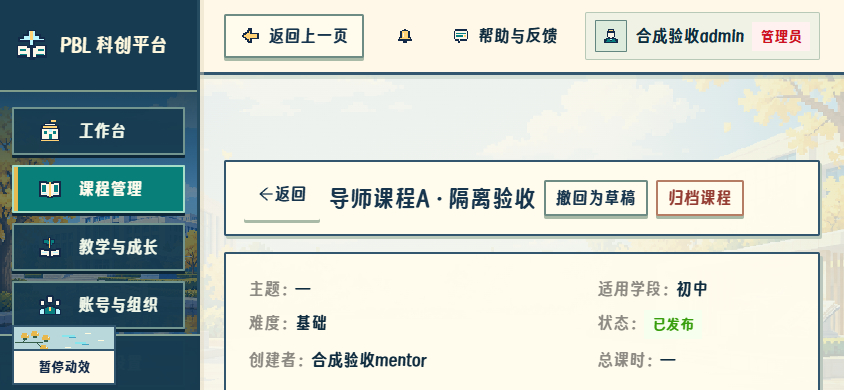
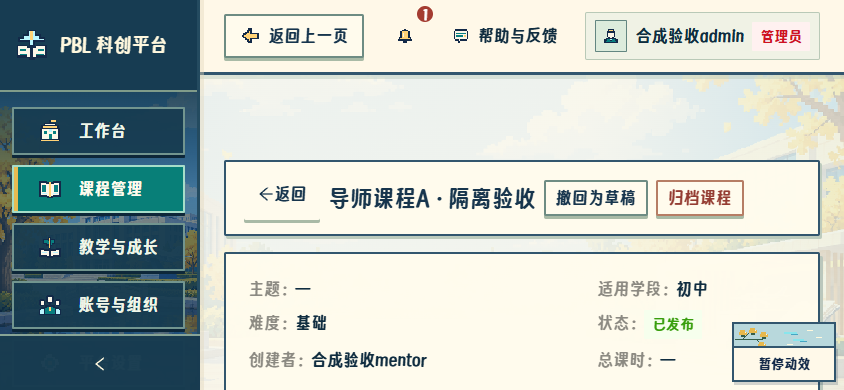
fix: keep pixel motion controls clear of short-screen navigation

diff --git a/docs/pixel-motion/index.html b/docs/pixel-motion/index.html
@@ -1,1 +1,1 @@
-<!doctype html><html lang="zh-CN"><meta charset="utf-8"><meta name="viewport" content="width=device-width,initial-scale=1"><title>全端像素动效验收</title><style>body{max-width:1500px;margin:24px auto;padding:0 20px;background:#edf1e5;color:#132a49;font:17px/1.8 system-ui}a{color:#065b69}section{margin:32px 0}.grid{display:grid;grid-template-columns:repeat(auto-fit,minmax(300px,1fr));gap:20px}figure{margin:0;border:2px solid #32566e;background:#fff9e9;padding:10px}img{width:100%;height:auto}h1,h2{line-height:1.4}small{display:block}</style><h1>全端像素动效验收</h1><p><a href="http://127.0.0.1:4204/login">真实网站</a> · <a href="http://127.0.0.1:4204/pixel-motion-preview/index.html">动态素材/逐帧/静态对照</a> · <a href="verification.md">验证与限制</a> · <a href="coverage.md">覆盖表</a> · <a href="DEPLOY.md">导入指南</a></p><p>所有网站截图均为实际浏览器原始输出，未缩改像素或把整张图作为页面。这里的网页缩略显示可点击查看原图；390等标注来自实际DOM视口。素材页截图与网站时间截图分开列示，不称为录屏。账号仅放本机私有文件。</p><p>原生后台隐藏仍待普通浏览器人工复核；该项未记为通过。当前使用合成课程/账号，截图与可操作预览是独立测试会话，进度可能不同。</p><section><h2>登录：三尺寸与补充视口</h2><div class="grid"><figure><a href="images/login-1440.jpg"><img loading="lazy" src="images/login-1440.jpg" alt="登录 1440×900"></a><figcaption>1440×900 原始视口</figcaption></figure><figure><a href="images/login-768.jpg"><img loading="lazy" src="images/login-768.jpg" alt="登录 768×1024"></a><figcaption>768×1024 原始视口</figcaption></figure><figure><a href="images/login-390.jpg"><img loading="lazy" src="images/login-390.jpg" alt="登录 390×844"></a><figcaption>390×844 原始视口</figcaption></figure><figure><a href="images/login-360.jpg"><img loading="lazy" src="images/login-360.jpg" alt="登录 360×640"></a><figcaption>360×640 原始视口</figcaption></figure><figure><a href="images/login-844.jpg"><img loading="lazy" src="images/login-844.jpg" alt="登录 844×390"></a><figcaption>844×390 原始视口</figcaption></figure><figure><a href="images/login-1920.jpg"><img loading="lazy" src="images/login-1920.jpg" alt="登录 1920×1080"></a><figcaption>1920×1080 原始视口</figcaption></figure></div></section><section><h2>学生地图：三尺寸与补充视口</h2><div class="grid"><figure><a href="images/student-1440.png"><img loading="lazy" src="images/student-1440.png" alt="学生地图 1440×900"></a><figcaption>1440×900 原始视口</figcaption></figure><figure><a href="images/student-768.png"><img loading="lazy" src="images/student-768.png" alt="学生地图 768×1024"></a><figcaption>768×1024 原始视口</figcaption></figure><figure><a href="images/student-390.png"><img loading="lazy" src="images/student-390.png" alt="学生地图 390×844"></a><figcaption>390×844 原始视口</figcaption></figure><figure><a href="images/student-360.png"><img loading="lazy" src="images/student-360.png" alt="学生地图 360×640"></a><figcaption>360×640 原始视口</figcaption></figure><figure><a href="images/student-844.png"><img loading="lazy" src="images/student-844.png" alt="学生地图 844×390"></a><figcaption>844×390 原始视口</figcaption></figure><figure><a href="images/student-1920.png"><img loading="lazy" src="images/student-1920.png" alt="学生地图 1920×1080"></a><figcaption>1920×1080 原始视口</figcaption></figure></div></section><section><h2>导师课程维护：三尺寸与补充视口</h2><div class="grid"><figure><a href="images/mentor-1440.png"><img loading="lazy" src="images/mentor-1440.png" alt="导师课程维护 1440×900"></a><figcaption>1440×900 原始视口</figcaption></figure><figure><a href="images/mentor-768.png"><img loading="lazy" src="images/mentor-768.png" alt="导师课程维护 768×1024"></a><figcaption>768×1024 原始视口</figcaption></figure><figure><a href="images/mentor-390.png"><img loading="lazy" src="images/mentor-390.png" alt="导师课程维护 390×844"></a><figcaption>390×844 原始视口</figcaption></figure><figure><a href="images/mentor-360.png"><img loading="lazy" src="images/mentor-360.png" alt="导师课程维护 360×640"></a><figcaption>360×640 原始视口</figcaption></figure><figure><a href="images/mentor-844.png"><img loading="lazy" src="images/mentor-844.png" alt="导师课程维护 844×390"></a><figcaption>844×390 原始视口</figcaption></figure><figure><a href="images/mentor-1920.png"><img loading="lazy" src="images/mentor-1920.png" alt="导师课程维护 1920×1080"></a><figcaption>1920×1080 原始视口</figcaption></figure></div></section><section><h2>管理员课程维护：三尺寸与补充视口</h2><div class="grid"><figure><a href="images/admin-1440.png"><img loading="lazy" src="images/admin-1440.png" alt="管理员课程维护 1440×900"></a><figcaption>1440×900 原始视口</figcaption></figure><figure><a href="images/admin-768.png"><img loading="lazy" src="images/admin-768.png" alt="管理员课程维护 768×1024"></a><figcaption>768×1024 原始视口</figcaption></figure><figure><a href="images/admin-390.png"><img loading="lazy" src="images/admin-390.png" alt="管理员课程维护 390×844"></a><figcaption>390×844 原始视口</figcaption></figure><figure><a href="images/admin-360.png"><img loading="lazy" src="images/admin-360.png" alt="管理员课程维护 360×640"></a><figcaption>360×640 原始视口</figcaption></figure><figure><a href="images/admin-844.png"><img loading="lazy" src="images/admin-844.png" alt="管理员课程维护 844×390"></a><figcaption>844×390 原始视口</figcaption></figure><figure><a href="images/admin-1920.png"><img loading="lazy" src="images/admin-1920.png" alt="管理员课程维护 1920×1080"></a><figcaption>1920×1080 原始视口</figcaption></figure></div></section><section><h2>真实网站时序截图</h2><p>不同时刻现场原图，非固定间隔录屏。独立PNG局部帧差断言见verified-scenes.json，不单凭整页变化判断动画。</p><div class="grid"><figure><a href="images/voyage-live-t0.jpg"><img loading="lazy" src="images/voyage-live-t0.jpg" alt="voyage-live-t0.jpg"></a><figcaption>voyage-live-t0.jpg</figcaption></figure><figure><a href="images/voyage-live-t1.jpg"><img loading="lazy" src="images/voyage-live-t1.jpg" alt="voyage-live-t1.jpg"></a><figcaption>voyage-live-t1.jpg</figcaption></figure><figure><a href="images/voyage-paused.jpg"><img loading="lazy" src="images/voyage-paused.jpg" alt="voyage-paused.jpg"></a><figcaption>voyage-paused.jpg</figcaption></figure></div></section><section><h2>五主题原帧预览</h2><p>代码原生像素帧素材的浏览器预览，不是实际网站录屏。每组完整8帧可在动态素材页横向查看，支持单步。</p><div class="grid"><figure><a href="images/asset-campus-frames.jpg"><img loading="lazy" src="images/asset-campus-frames.jpg" alt="asset-campus-frames.jpg"></a><figcaption>asset-campus-frames.jpg</figcaption></figure><figure><a href="images/asset-sky-frames.jpg"><img loading="lazy" src="images/asset-sky-frames.jpg" alt="asset-sky-frames.jpg"></a><figcaption>asset-sky-frames.jpg</figcaption></figure><figure><a href="images/asset-forest-frames.jpg"><img loading="lazy" src="images/asset-forest-frames.jpg" alt="asset-forest-frames.jpg"></a><figcaption>asset-forest-frames.jpg</figcaption></figure><figure><a href="images/asset-beach-frames.jpg"><img loading="lazy" src="images/asset-beach-frames.jpg" alt="asset-beach-frames.jpg"></a><figcaption>asset-beach-frames.jpg</figcaption></figure><figure><a href="images/asset-voyage-frames.jpg"><img loading="lazy" src="images/asset-voyage-frames.jpg" alt="asset-voyage-frames.jpg"></a><figcaption>asset-voyage-frames.jpg</figcaption></figure></div></section><p>中性后备（不是新增课程主题）：<a href="images/asset-neutral-frames.jpg">原帧预览</a>。</p></html>
+<!doctype html><html lang="zh-CN"><meta charset="utf-8"><meta name="viewport" content="width=device-width,initial-scale=1"><title>全端像素动效验收</title><style>body{max-width:1500px;margin:24px auto;padding:0 20px;background:#edf1e5;color:#132a49;font:17px/1.8 system-ui}a{color:#065b69}section{margin:32px 0}.grid{display:grid;grid-template-columns:repeat(auto-fit,minmax(300px,1fr));gap:20px}figure{margin:0;border:2px solid #32566e;background:#fff9e9;padding:10px}img{width:100%;height:auto}h1,h2{line-height:1.4}small{display:block}</style><h1>全端像素动效验收</h1><p><a href="http://127.0.0.1:4204/login">真实网站</a> · <a href="http://127.0.0.1:4204/pixel-motion-preview/index.html">动态素材/逐帧/静态对照</a> · <a href="verification.md">验证与限制</a> · <a href="coverage.md">覆盖表</a> · <a href="DEPLOY.md">导入指南</a></p><p>所有网站截图均为实际浏览器原始输出，未缩改像素或把整张图作为页面。这里的网页缩略显示可点击查看原图；390等标注来自实际DOM视口。素材页截图与网站时间截图分开列示，不称为录屏。账号仅放本机私有文件。</p><p>原生后台隐藏仍待普通浏览器人工复核；该项未记为通过。当前使用合成课程/账号，截图与可操作预览是独立测试会话，进度可能不同。</p><section><h2>登录：三尺寸与补充视口</h2><div class="grid"><figure><a href="images/login-1440.jpg"><img loading="lazy" src="images/login-1440.jpg" alt="登录 1440×900"></a><figcaption>1440×900 原始视口</figcaption></figure><figure><a href="images/login-768.jpg"><img loading="lazy" src="images/login-768.jpg" alt="登录 768×1024"></a><figcaption>768×1024 原始视口</figcaption></figure><figure><a href="images/login-390.jpg"><img loading="lazy" src="images/login-390.jpg" alt="登录 390×844"></a><figcaption>390×844 原始视口</figcaption></figure><figure><a href="images/login-360.jpg"><img loading="lazy" src="images/login-360.jpg" alt="登录 360×640"></a><figcaption>360×640 原始视口</figcaption></figure><figure><a href="images/login-844.jpg"><img loading="lazy" src="images/login-844.jpg" alt="登录 844×390"></a><figcaption>844×390 原始视口</figcaption></figure><figure><a href="images/login-1920.jpg"><img loading="lazy" src="images/login-1920.jpg" alt="登录 1920×1080"></a><figcaption>1920×1080 原始视口</figcaption></figure></div></section><section><h2>学生地图：三尺寸与补充视口</h2><div class="grid"><figure><a href="images/student-1440.png"><img loading="lazy" src="images/student-1440.png" alt="学生地图 1440×900"></a><figcaption>1440×900 原始视口</figcaption></figure><figure><a href="images/student-768.png"><img loading="lazy" src="images/student-768.png" alt="学生地图 768×1024"></a><figcaption>768×1024 原始视口</figcaption></figure><figure><a href="images/student-390.png"><img loading="lazy" src="images/student-390.png" alt="学生地图 390×844"></a><figcaption>390×844 原始视口</figcaption></figure><figure><a href="images/student-360.png"><img loading="lazy" src="images/student-360.png" alt="学生地图 360×640"></a><figcaption>360×640 原始视口</figcaption></figure><figure><a href="images/student-844.png"><img loading="lazy" src="images/student-844.png" alt="学生地图 844×390"></a><figcaption>844×390 原始视口</figcaption></figure><figure><a href="images/student-1920.png"><img loading="lazy" src="images/student-1920.png" alt="学生地图 1920×1080"></a><figcaption>1920×1080 原始视口</figcaption></figure></div></section><section><h2>导师课程维护：三尺寸与补充视口</h2><div class="grid"><figure><a href="images/mentor-1440.png"><img loading="lazy" src="images/mentor-1440.png" alt="导师课程维护 1440×900"></a><figcaption>1440×900 原始视口</figcaption></figure><figure><a href="images/mentor-768.png"><img loading="lazy" src="images/mentor-768.png" alt="导师课程维护 768×1024"></a><figcaption>768×1024 原始视口</figcaption></figure><figure><a href="images/mentor-390.png"><img loading="lazy" src="images/mentor-390.png" alt="导师课程维护 390×844"></a><figcaption>390×844 原始视口</figcaption></figure><figure><a href="images/mentor-360.png"><img loading="lazy" src="images/mentor-360.png" alt="导师课程维护 360×640"></a><figcaption>360×640 原始视口</figcaption></figure><figure><a href="images/mentor-844.png"><img loading="lazy" src="images/mentor-844.png" alt="导师课程维护 844×390"></a><figcaption>844×390 原始视口</figcaption></figure><figure><a href="images/mentor-1920.png"><img loading="lazy" src="images/mentor-1920.png" alt="导师课程维护 1920×1080"></a><figcaption>1920×1080 原始视口</figcaption></figure></div></section><section><h2>管理员课程维护：三尺寸与补充视口</h2><div class="grid"><figure><a href="images/admin-1440.png"><img loading="lazy" src="images/admin-1440.png" alt="管理员课程维护 1440×900"></a><figcaption>1440×900 原始视口</figcaption></figure><figure><a href="images/admin-768.png"><img loading="lazy" src="images/admin-768.png" alt="管理员课程维护 768×1024"></a><figcaption>768×1024 原始视口</figcaption></figure><figure><a href="images/admin-390.png"><img loading="lazy" src="images/admin-390.png" alt="管理员课程维护 390×844"></a><figcaption>390×844 原始视口</figcaption></figure><figure><a href="images/admin-360.png"><img loading="lazy" src="images/admin-360.png" alt="管理员课程维护 360×640"></a><figcaption>360×640 原始视口</figcaption></figure><figure><a href="images/admin-844.png"><img loading="lazy" src="images/admin-844.png" alt="管理员课程维护 844×390"></a><figcaption>844×390 原始视口</figcaption></figure><figure><a href="images/admin-1920.png"><img loading="lazy" src="images/admin-1920.png" alt="管理员课程维护 1920×1080"></a><figcaption>1920×1080 原始视口</figcaption></figure></div></section><section><h2>真实网站时序截图</h2><p>不同时刻现场原图，非固定间隔录屏。独立PNG局部帧差断言见verified-scenes.json，不单凭整页变化判断动画。</p><div class="grid"><figure><a href="images/voyage-live-t0.jpg"><img loading="lazy" src="images/voyage-live-t0.jpg" alt="voyage-live-t0.jpg"></a><figcaption>voyage-live-t0.jpg</figcaption></figure><figure><a href="images/voyage-live-t1.jpg"><img loading="lazy" src="images/voyage-live-t1.jpg" alt="voyage-live-t1.jpg"></a><figcaption>voyage-live-t1.jpg</figcaption></figure><figure><a href="images/voyage-paused.jpg"><img loading="lazy" src="images/voyage-paused.jpg" alt="voyage-paused.jpg"></a><figcaption>voyage-paused.jpg</figcaption></figure></div></section><section><h2>五主题原帧预览</h2><p>代码原生像素帧素材的浏览器预览，不是实际网站录屏。每组完整8帧可在动态素材页横向查看，支持单步。</p><div class="grid"><figure><a href="images/asset-campus-frames.jpg"><img loading="lazy" src="images/asset-campus-frames.jpg" alt="asset-campus-frames.jpg"></a><figcaption>asset-campus-frames.jpg</figcaption></figure><figure><a href="images/asset-sky-frames.jpg"><img loading="lazy" src="images/asset-sky-frames.jpg" alt="asset-sky-frames.jpg"></a><figcaption>asset-sky-frames.jpg</figcaption></figure><figure><a href="images/asset-forest-frames.jpg"><img loading="lazy" src="images/asset-forest-frames.jpg" alt="asset-forest-frames.jpg"></a><figcaption>asset-forest-frames.jpg</figcaption></figure><figure><a href="images/asset-beach-frames.jpg"><img loading="lazy" src="images/asset-beach-frames.jpg" alt="asset-beach-frames.jpg"></a><figcaption>asset-beach-frames.jpg</figcaption></figure><figure><a href="images/asset-voyage-frames.jpg"><img loading="lazy" src="images/asset-voyage-frames.jpg" alt="asset-voyage-frames.jpg"></a><figcaption>asset-voyage-frames.jpg</figcaption></figure></div></section><p>中性后备（不是新增课程主题）：<a href="images/asset-neutral-frames.jpg">原帧预览</a>。</p><p>短横屏折叠/手机菜单已补查，图片已更新：<a href="responsive-patch.json">实际记录</a> · <a href="images/student-1440-short.png">1440×390课程侧栏原图</a>。</p></html>

diff --git a/frontend/src/motion/motion.css b/frontend/src/motion/motion.css
@@ -26,4 +26,6 @@ body[data-staff-campus='true'] .motion-dock{bottom:64px;z-index:65}
 /* The fixed control needs a scrollable safe area below the last form action. */
 @media(max-width:767px){body:has(.motion-dock) .space-shell:not(.space-shell--course) .space-content.student-content,body[data-staff-campus='true'] .staff-content{padding-bottom:108px}}
 @media(max-height:500px){.motion-diorama{height:24px}.motion-toggle{min-height:36px;font-size:13px}.motion-dock,body[data-staff-campus='true'] .motion-dock{bottom:5px}}
+@media(min-width:768px) and (max-height:500px){body[data-staff-campus='true'] .motion-dock{left:auto;right:8px;bottom:8px}body[data-staff-campus='true'] .staff-content{padding-bottom:92px}body:has(.space-sidebar) .motion-dock{left:236px}}
+@media(max-width:767px){body[data-staff-campus='true']:has(.staff-sidebar-mobile:not(.ant-layout-sider-collapsed)) .motion-dock{visibility:hidden}}
 @media(prefers-reduced-motion:reduce){.pixel-sprite{animation:none!important;transition:none!important}}

diff --git a/docs/pixel-motion/verification.md b/docs/pixel-motion/verification.md
@@ -48,3 +48,10 @@
 - 没有手机真机、Linux服务器部署、公网验收或可靠录屏。交付原始时序截图和可操作网站，不称作录屏/GIF现场录像。六条B站参考访问受限，未完整逐帧审完；未复制其画面/音乐/壁纸。
 
 人工复核：默认播放4204站点，另开普通浏览器标签或最小化，观察后台停止、回到页面不快速补帧；分别试暂停、系统减少运动与恢复。当前原生窗口项是明确验收缺口，不以“所有检查通过”概括本轮。
+
+
+## 最终短屏控件补修
+
+原始844×390截图发现暂停入口盖住后台侧栏折叠键。这是本轮新增控件的位置问题，已修正：短横屏后台控件移到主内容右侧并预留末行空间；有课程侧栏的宽短屏移到主内容侧；后台手机菜单展开时控件让位，关闭后恢复。没有移动原导航或更改按钮用途。
+
+最终重新运行lint、144项前端单测、产品与独立预览构建，均通过。响应式定向浏览器用例通过：admin/mentor在844×390实际点击折叠和展开；390宽打开菜单、点击原“课程管理”并返回维护页；三角色六视口及额外1440×390课程侧栏检查通过，更新了原图。见responsive-patch.json，该次重复覆盖不与原135条记录相加宣称新增业务数。原生后台隐藏仍按上文保留人工复核，不因本补修而改称通过。

diff --git a/docs/pixel-motion/coverage.md b/docs/pixel-motion/coverage.md
@@ -141,3 +141,5 @@
 | student | /change-password | forced | 先设置你的新密码 | campus | 2 |
 | student | /lab | /lab | 实验室 | campus | 4 |
 | student | /glider | /glider | 滑翔机模拟实验室 | campus | 4 |
+
+最终补查：短横屏后台暂停入口移至主内容右侧，折叠键实际点击通过；手机菜单展开时控件让位，原课程管理导航通过。三角色六视口及1440×390课程侧栏补查见responsive-patch.json，重复记录不相加。
